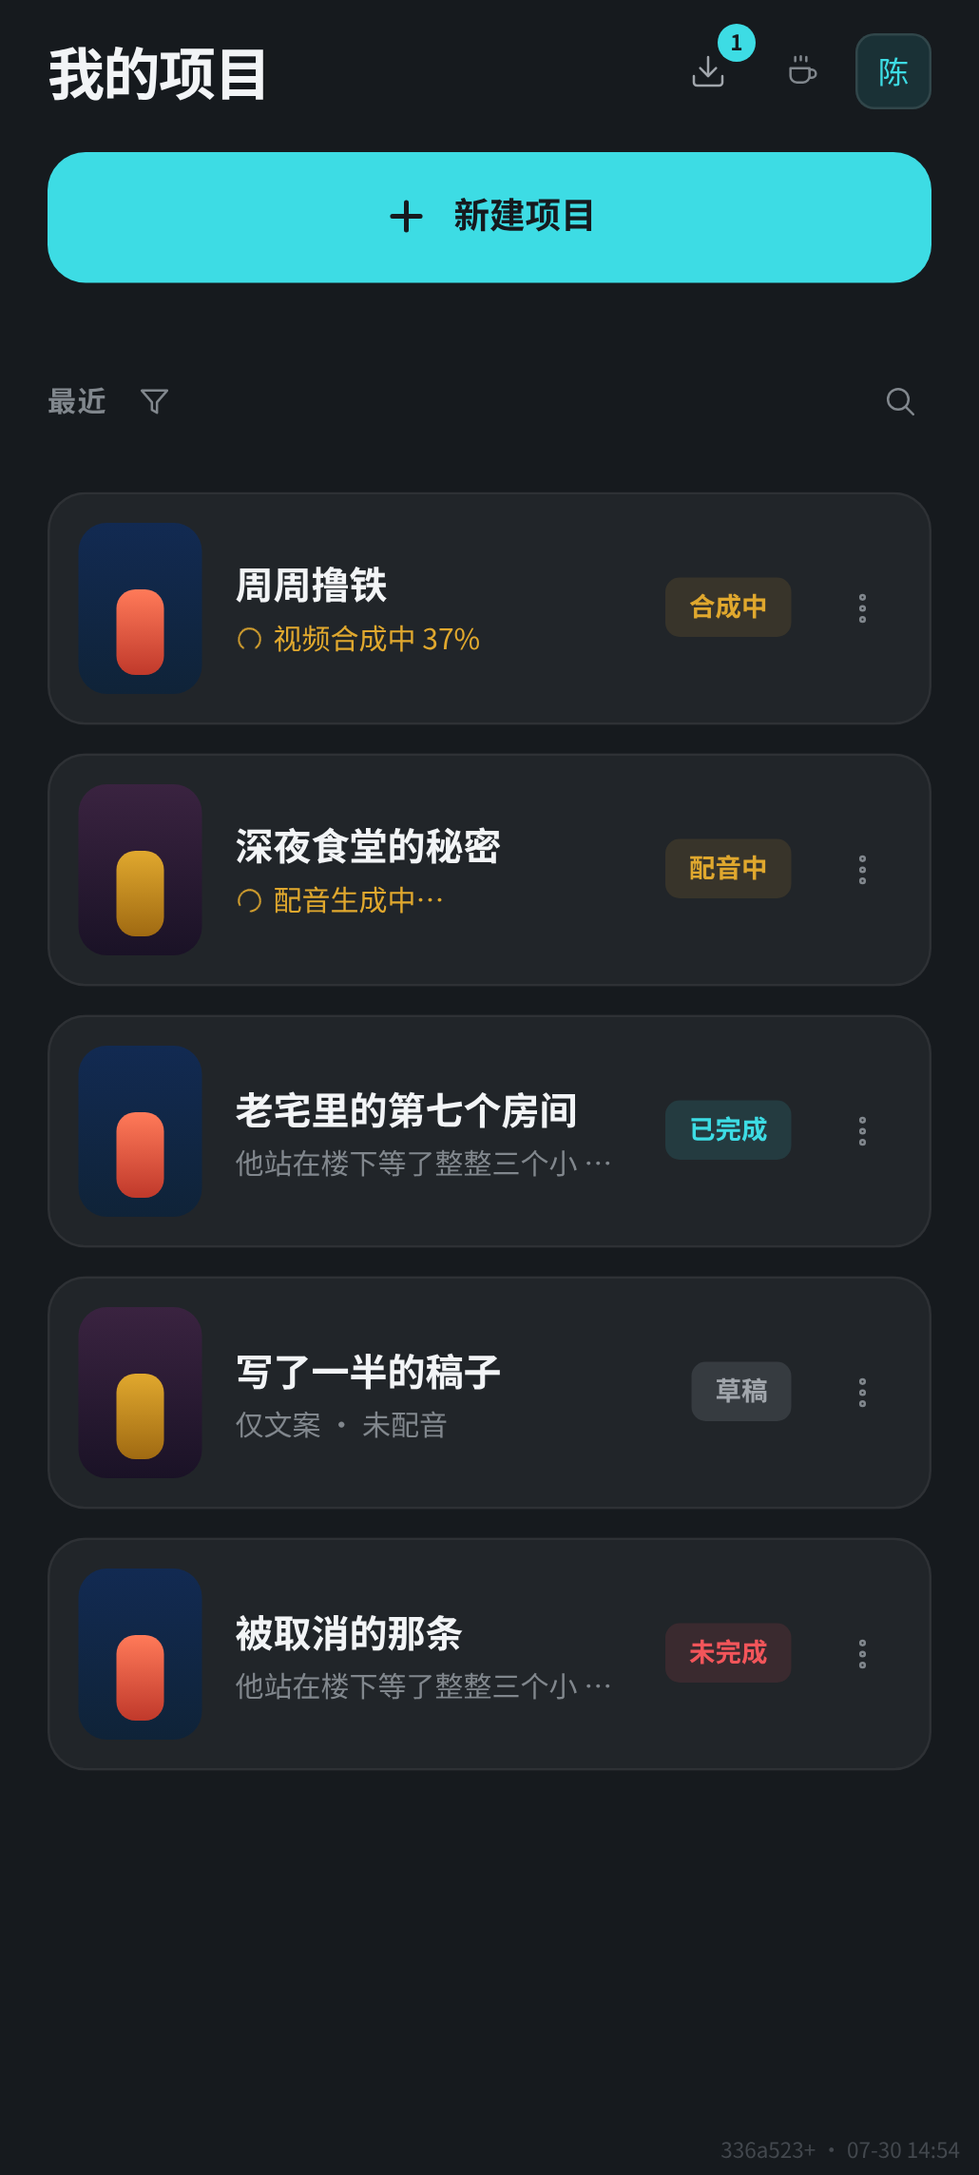
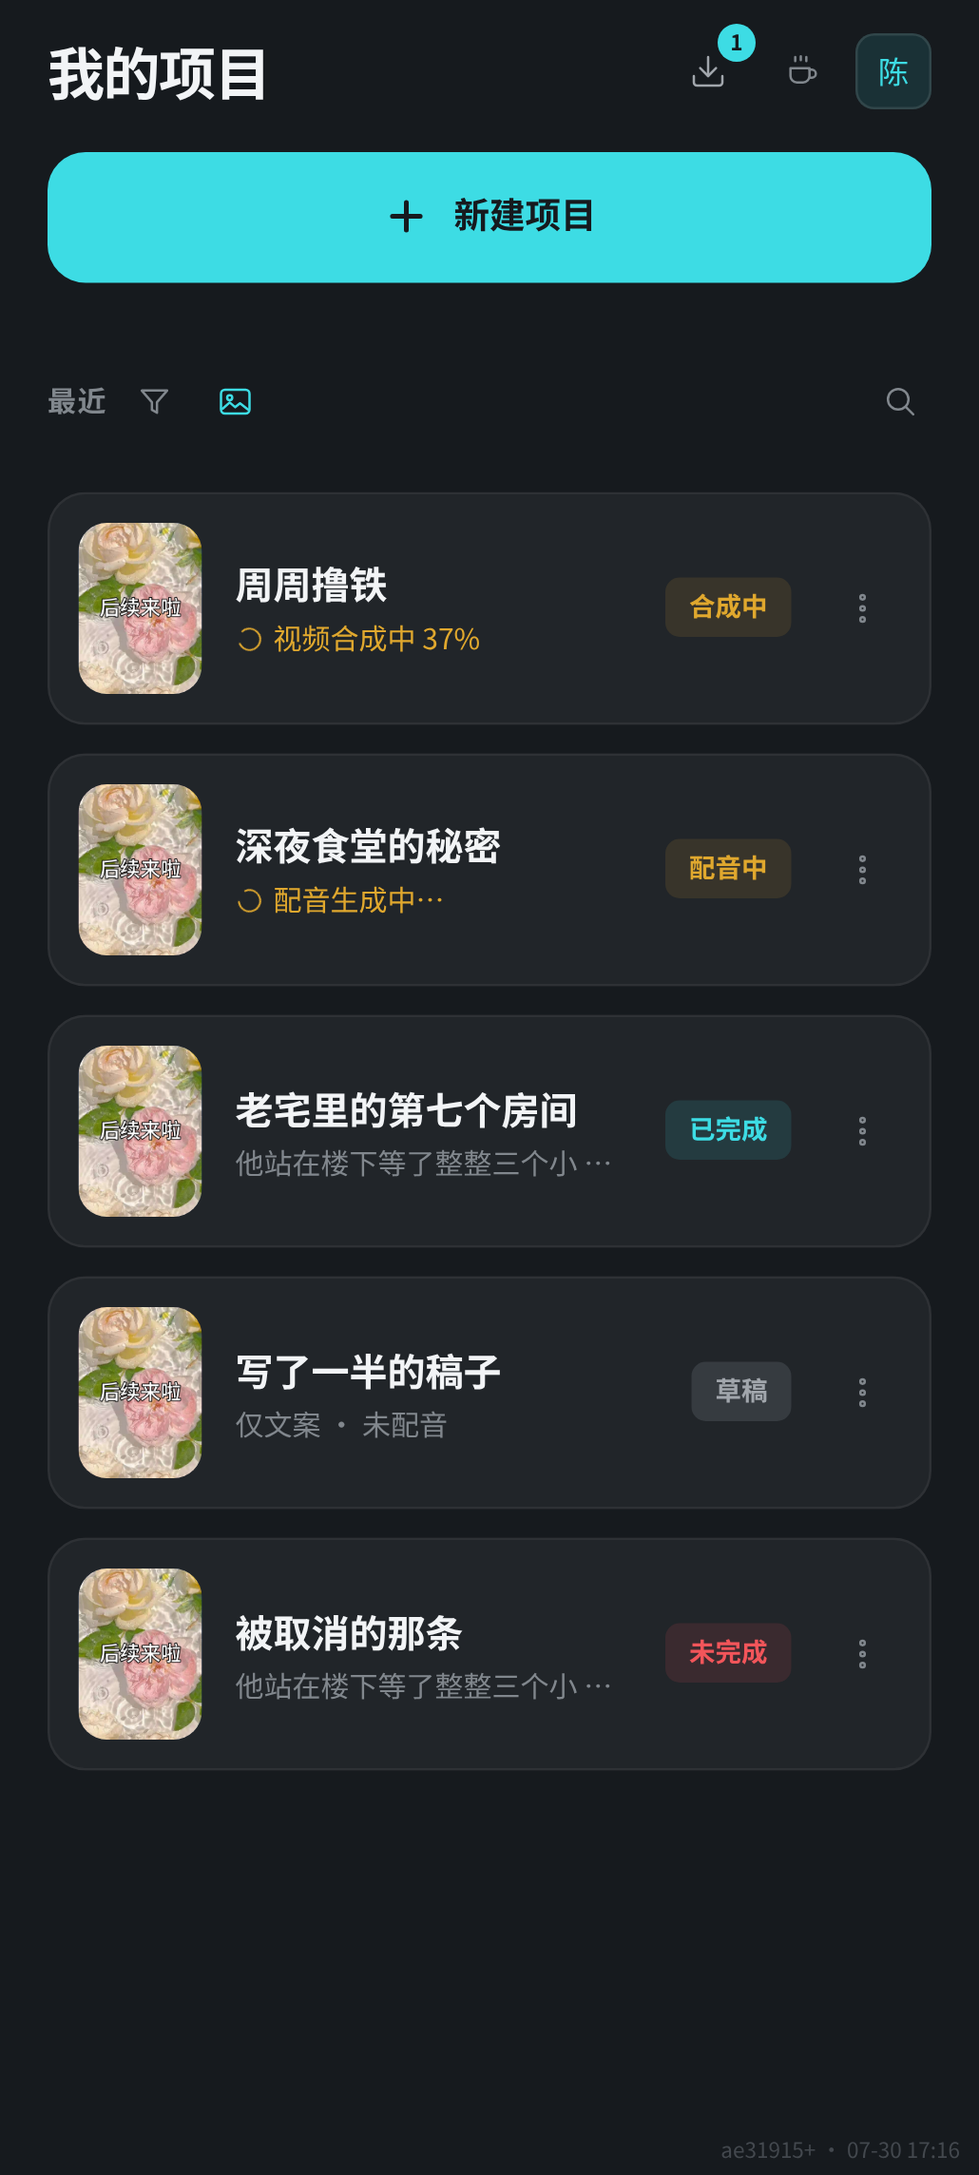
feat: 列表缩略图换成真封面 + 封面预览开关；长标题自动换行不再被切掉
列表
- 每行左边那块不再是编出来的渐变占位，而是这条片子真正的封面——列表上
  看到的就是它发出去以后别人看到的第一眼
- 槽位尺寸不变（52×72）。封面是 9:16，按【宽度铺满 + 纵向居中裁切】：
  宽度顶满不裁不变形，上下各裁一点。反过来按高度铺满的话左右会被切，
  而标题正在中间，切掉的就是字
- 「最近」行加封面预览开关，挨着漏斗。**只存本地不入库**——它回答的是
  "我现在想怎么看列表"，不是项目属性；关掉回退到原来的占位块
- GET /api/projects/:id/cover.jpg：只由底图 + 标题决定，和成片有没有合好
  无关，草稿项目也有封面。画一张约 350ms，按标题缓存到盘上

长标题（这条同时修了会烧进视频的 bug）
- drawtext 既不换行也不缩字号，它只是把画不下的部分画到画布外面。一个
  9 字的项目名在封面上是"两头都被切掉的半截字"——而项目名动辄七八个字，
  这是常态不是边角
- 现在：6 字以内一行；超过均分两行（长的那半在上，读起来是"标题+补充"）；
  两行还塞不下就缩字号，一行永不超过画布宽的 90%
- 4 字标题的字号和参考图拟合结果逐像素一致（外轮廓 IoU 0.961 未退化）
- 换行必须是【真的换行符】：写成 \n 两个字符 drawtext 会当成字母 n 画出来
- 字号用 floor 不是 round —— 这是个上限，四舍五入会让长标题超出预算
  一两个像素，超出的正好是最外侧的笔画

diff --git a/web/src/components/mobile/MobileProjectList.tsx b/web/src/components/mobile/MobileProjectList.tsx
@@ -4,7 +4,10 @@ import { usePipeline } from '../../store/pipeline'
 import { AccountMenu } from '../AccountMenu'
 import { PaletteToggle } from '../PaletteToggle'
 import { DownloadPanel } from './DownloadPanel'
-import { IconPlus, IconLoader, IconTrash, IconMore, IconFilter, IconSearch, IconClose } from '../ui/Icon'
+import {
+  IconPlus, IconLoader, IconTrash, IconMore, IconFilter, IconSearch, IconClose,
+  IconImage, IconImageOff,
+} from '../ui/Icon'
 
 /**
  * 手机版项目列表（概念图 Screen 0）：**我的项目 + 一步新建**。
@@ -60,6 +63,16 @@ function summaryOf (p: Project): string {
   return '空项目 · 从这里开始'
 }
 
+/*
+ * 【封面预览开关只存本地，不入库】。它回答的是"我现在想怎么看这个列表"，
+ * 不是项目的属性——换台设备各看各的，也不该因为改了个显示偏好就去写数据库。
+ */
+const COVER_PREF_KEY = 'sj.list.cover'
+
+function readCoverPref (): boolean {
+  try { return localStorage.getItem(COVER_PREF_KEY) !== '0' } catch { return true }
+}
+
 /** 下拉多远算"要刷新"，以及指示条最多长到多高 */
 const PULL_THRESHOLD = 56
 const PULL_MAX = 76
@@ -74,6 +87,7 @@ export function MobileProjectList ({ onOpen, onNew }: { onOpen: (id: string) => 
   const [query, setQuery] = useState('')
   const [searching, setSearching] = useState(false)
   const [filterHint, setFilterHint] = useState(false)
+  const [showCover, setShowCover] = useState(readCoverPref)
   const searchRef = useRef<HTMLInputElement>(null)
   useEffect(() => { if (searching) searchRef.current?.focus() }, [searching])
 
@@ -154,6 +168,26 @@ export function MobileProjectList ({ onOpen, onNew }: { onOpen: (id: string) => 
         >
           <IconFilter className="size-4" />
         </button>
+
+        {/* 封面预览开关：挨着漏斗。做成图标按钮而不是滑动开关——
+            这行只有 36px 高，塞一个 iOS 那种开关会把整行撑散。
+            只存本地，不入库（见 COVER_PREF_KEY 上面那段） */}
+        <button
+          type="button"
+          aria-label={showCover ? '关闭封面预览' : '显示封面预览'}
+          aria-pressed={showCover}
+          onClick={() => {
+            const next = !showCover
+            setShowCover(next)
+            try { localStorage.setItem(COVER_PREF_KEY, next ? '1' : '0') } catch { /* 无痕模式写不了，不影响本次 */ }
+          }}
+          className={`flex size-7 shrink-0 items-center justify-center rounded-lg transition-colors ${
+            showCover ? 'text-accent hover:bg-ink-850' : 'text-ink-400 hover:bg-ink-850 hover:text-ink-200'
+          }`}
+        >
+          {showCover ? <IconImage className="size-4" /> : <IconImageOff className="size-4" />}
+        </button>
+
         {filterHint && !searching && (
           <span className="truncate text-[11px] text-[#e0a82e]">我还没开发呢，以后再开发</span>
         )}
@@ -284,7 +318,15 @@ export function MobileProjectList ({ onOpen, onNew }: { onOpen: (id: string) => 
                     onKeyDown={(e) => { if (e.key === 'Enter' || e.key === ' ') { e.preventDefault(); onOpen(p.id) } }}
                     className="group flex w-full cursor-pointer items-center gap-3.5 rounded-2xl border border-line bg-ink-900 p-3 text-left transition-colors hover:border-ink-600"
                   >
-                    {/* 竖向缩略图占位：两种冷/暖渐变交替，呼应 9:16 画面 */}
+                    {/*
+                     * 缩略图。开着封面预览时放【这条片子真正的封面】——
+                     * 列表上看到的就是它发出去以后别人看到的第一眼。
+                     *
+                     * 封面是 9:16，槽位是 52×72（更方）。按【宽度铺满 + 纵向
+                     * 居中裁切】：宽度顶满不裁、不变形，上下各裁掉一点。
+                     * 反过来按高度铺满的话左右会被切掉，而标题正在中间，
+                     * 切掉的就是字。
+                     */}
                     <span
                       className="relative h-[72px] w-[52px] shrink-0 overflow-hidden rounded-xl"
                       style={{
@@ -293,14 +335,24 @@ export function MobileProjectList ({ onOpen, onNew }: { onOpen: (id: string) => 
                           : 'linear-gradient(180deg,#3a2340,#1a1226)',
                       }}
                     >
-                      <span
-                        className="absolute bottom-2 left-1/2 h-9 w-5 -translate-x-1/2 rounded-lg"
-                        style={{
-                          background: i % 2 === 0
-                            ? 'linear-gradient(180deg,#ff7a59,#c0392b)'
-                            : 'linear-gradient(180deg,#e0a82e,#a06a12)',
-                        }}
-                      />
+                      {showCover ? (
+                        <img
+                          // v= 跟着标题走：改了标题 URL 就变，缓存自然失效
+                          src={`/api/projects/${p.id}/cover.jpg?v=${encodeURIComponent(p.coverTitle || p.name)}`}
+                          alt=""
+                          loading="lazy"
+                          className="absolute inset-0 size-full object-cover object-center"
+                        />
+                      ) : (
+                        <span
+                          className="absolute bottom-2 left-1/2 h-9 w-5 -translate-x-1/2 rounded-lg"
+                          style={{
+                            background: i % 2 === 0
+                              ? 'linear-gradient(180deg,#ff7a59,#c0392b)'
+                              : 'linear-gradient(180deg,#e0a82e,#a06a12)',
+                          }}
+                        />
+                      )}
                     </span>
 
                     <span className="min-w-0 flex-1">

diff --git a/src/cover/cover.ts b/src/cover/cover.ts
@@ -37,9 +37,21 @@ import type { AspectPreset } from '../types.js'
 const FPS = 30
 export const COVER_FRAMES = 2
 
-const SIZE_RATIO = 0.16508      // 字号 / 画布宽
+const SIZE_RATIO = 0.16508      // 字号 / 画布宽（参考图那种 4 字标题的字号）
 const STROKE_RATIO = 0.03846    // 描边 / 字号
 const BASELINE_RATIO = 0.0096   // 垂直微调 / 字号
+
+/**
+ * 一行最多几个字，以及一行能占画布宽的多少。
+ *
+ * 【为什么必须有这两条】：参考图是 4 个字，按 0.16508 的字号正好占 66% 宽。
+ * 同样的字号给一个 9 字的标题，会一路画到画外去——drawtext 既不换行也不缩，
+ * 它只是把字画到画布外面，成片上看到的是【两头都被切掉的半截字】。
+ * 项目名动辄七八个字，所以这不是边角情况，是常态。
+ */
+const MAX_CHARS_PER_LINE = 6
+const MAX_LINES = 2
+const LINE_WIDTH_BUDGET = 0.90   // 一行最宽占画布宽的比例，两侧各留 5%
 
 /** 固定封面图和封面字体都跟着代码走，部署即到位 */
 export const COVER_IMAGE = join(process.cwd(), 'assets/cover/default.jpg')
@@ -47,6 +59,13 @@ export const COVER_FONT = join(process.cwd(), 'assets/fonts/SourceHanSansCN-Medi
 
 /** 封面片段的文件名（放在项目目录里，和成片同级） */
 export const COVER_CLIP_FILE = 'cover.mp4'
+
+/** 列表缩略图用的封面静态图，和它对应的标题（标题变了要重画） */
+export const COVER_THUMB_FILE = 'cover-thumb.jpg'
+export const COVER_THUMB_TITLE_FILE = 'cover-thumb.txt'
+
+/** 缩略图宽度。列表里显示只有 52 逻辑像素宽，360 足够 3 倍屏 */
+export const COVER_THUMB_WIDTH = 360
 
 /**
  * drawtext 的 text 值要转义。
@@ -69,8 +88,33 @@ export function coverTitleOf (project: { name: string; coverTitle?: string | nul
   return t === '' ? project.name : t
 }
 
+/**
+ * 标题排版：先决定分几行，再决定字号。
+ *
+ * 分行：6 个字以内一行；超过就均分成两行（长的那半放上面，读起来是
+ * 「大标题 + 补充」而不是「补充 + 大标题」）。超过 12 字只能靠缩字号。
+ *
+ * 字号：取【参考字号】和【一行塞得下的字号】里小的那个。于是 4 字标题和
+ * 参考图逐像素一致，长标题自动缩到画得下——而不是被切掉两头。
+ */
+export function layoutTitle (title: string, width: number): { lines: string[]; size: number } {
+  const chars = [...title.trim()]
+  const lines = chars.length <= MAX_CHARS_PER_LINE
+    ? [chars.join('')]
+    : (() => {
+        const per = Math.ceil(chars.length / MAX_LINES)
+        return [chars.slice(0, per).join(''), chars.slice(per).join('')]
+      })()
+  const longest = Math.max(...lines.map((l) => [...l].length), 1)
+  // 中日韩方块字的步进就是一个字号，所以"一行的宽" ≈ 字数 × 字号
+  const fitted = (width * LINE_WIDTH_BUDGET) / longest
+  // 【floor 不是 round】：这是个上限。四舍五入会让长标题超出预算一两个像素，
+  // 而超出的那部分正好是最外侧的笔画，看着就是"边上少了一点点"
+  return { lines, size: Math.floor(Math.min(width * SIZE_RATIO, fitted)) }
+}
+
 export function coverDrawtextFilter (title: string, aspect: AspectPreset): string {
-  const size = Math.round(aspect.width * SIZE_RATIO)
+  const { lines, size } = layoutTitle(title, aspect.width)
   const border = Math.max(1, Math.round(size * STROKE_RATIO))
   const dy = Math.round(size * BASELINE_RATIO)
   return [
@@ -78,12 +122,15 @@ export function coverDrawtextFilter (title: string, aspect: AspectPreset): strin
     `crop=${aspect.width}:${aspect.height}`,
     [
       `drawtext=fontfile=${COVER_FONT}`,
-      `text='${escapeDrawtext(title)}'`,
+      // 换行用【真的换行符】。写成 \n 两个字符的话 drawtext 会当成字母 n 画出来
+      `text='${lines.map(escapeDrawtext).join('\n')}'`,
       `fontsize=${size}`,
       'fontcolor=white',
       `borderw=${border}`,
       'bordercolor=black',
+      `line_spacing=${Math.round(size * 0.08)}`,
       'x=(w-text_w)/2',
+      // text_h 是整块文字的高（两行也算在内），所以多行照样是整体居中
       `y=(h-text_h)/2+${dy}`,
     ].join(':'),
     `fps=${FPS}`,
@@ -147,6 +194,25 @@ export function coverClipArgs (opts: {
     '-movflags', '+faststart',
     opts.outPath,
   ]
+}
+
+/**
+ * 渲染一张封面【静态图】。列表里的缩略图用它——那儿要的是"这条片子发出去
+ * 别人看到的样子"，所以必须和成片最前面那两帧同一套版式、同一张底图。
+ *
+ * 尺寸按比例缩：drawtext 的字号/描边都是画布宽的比例，缩了照样对得上。
+ */
+export async function renderCoverImage (opts: {
+  imagePath: string; title: string; aspect: AspectPreset; outPath: string
+}): Promise<void> {
+  await run([
+    '-hide_banner', '-loglevel', 'error', '-y',
+    '-i', opts.imagePath,
+    '-vf', coverDrawtextFilter(opts.title, opts.aspect),
+    '-frames:v', '1',
+    '-q:v', '4',
+    opts.outPath,
+  ], '封面缩略图渲染')
 }
 
 function run (args: string[], what: string): Promise<void> {

diff --git a/src/queue/routes.ts b/src/queue/routes.ts
@@ -1,5 +1,5 @@
 import type { FastifyInstance } from 'fastify'
-import { createReadStream, existsSync, readFileSync, statSync } from 'node:fs'
+import { createReadStream, existsSync, readFileSync, statSync, writeFileSync } from 'node:fs'
 import { dirname, join } from 'node:path'
 import { spawn } from 'node:child_process'
 import { sendFileRange } from '../assets/storage.js'
@@ -7,7 +7,13 @@ import { openUserDb, type Project } from '../db/user-db.js'
 import { getSession, requireAuth } from '../auth/session.js'
 import { downloadableFilm, playableMaster, enqueueFilm, filmInfo, resolveFilm, FILM_STAMP_FILE, type FilmDeps } from '../compose/film.js'
 import { writeStamp } from '../compose/stamp.js'
-import { COVER_IMAGE } from '../cover/cover.js'
+import {
+  COVER_IMAGE, COVER_THUMB_FILE, COVER_THUMB_TITLE_FILE, COVER_THUMB_WIDTH,
+  coverTitleOf, renderCoverImage,
+} from '../cover/cover.js'
+import { aspectOf } from '../subtitles/project-ass.js'
+import { assetDir } from '../assets/storage.js'
+import { mkdir } from 'node:fs/promises'
 
 type Deps = FilmDeps
 
@@ -213,6 +219,45 @@ export function registerExportRoutes (app: FastifyInstance, deps: Deps): void {
       const versioned = typeof (req.query as { v?: string })?.v === 'string'
       reply.header('Cache-Control', versioned ? 'public, max-age=86400' : 'no-cache')
       return reply.type('image/jpeg').send(readFileSync(posterPath))
+    })
+
+  /**
+   * 这个项目的封面缩略图。项目列表每一行左边那块就是它——列表上看到的
+   * 必须就是这条片子发出去别人看到的第一眼，而不是一个占位色块。
+   *
+   * 【和成片有没有合好无关】：封面只由底图 + 标题决定，草稿状态的项目
+   * 也该有封面。所以这里不查母带、不查成片，直接画。
+   *
+   * 缓存：画完连标题一起存着，标题没变就直接回文件（画一张约 100ms，
+   * 列表每行都要，不缓存的话滚动一下就是十几次 ffmpeg）。
+   */
+  app.get<{ Params: { id: string } }>(
+    '/api/projects/:id/cover.jpg', { preHandler: requireAuth }, async (req, reply) => {
+      const name = getSession(req)!
+      const project = withUserDb(name, (db) => db.getProject(req.params.id))
+      if (!project) return reply.code(404).send({ error: '项目不存在' })
+
+      const dir = assetDir(name, deps.whitelist, req.params.id)
+      const title = coverTitleOf(project)
+      const thumb = join(dir, COVER_THUMB_FILE)
+      const titleFile = join(dir, COVER_THUMB_TITLE_FILE)
+      const cached = existsSync(thumb) && existsSync(titleFile)
+        && readFileSync(titleFile, 'utf-8') === title
+      if (!cached) {
+        const full = aspectOf(project)
+        const w = COVER_THUMB_WIDTH
+        const h = Math.round(w * full.height / full.width)
+        await mkdir(dir, { recursive: true })
+        await renderCoverImage({
+          imagePath: COVER_IMAGE, title,
+          aspect: { name: full.name, width: w, height: h },
+          outPath: thumb,
+        })
+        writeFileSync(titleFile, title, 'utf-8')
+      }
+      // 标题变了 URL 会带上新的 v=，所以这份可以放心长缓存
+      reply.header('Cache-Control', 'public, max-age=86400')
+      return reply.type('image/jpeg').send(readFileSync(thumb))
     })
 
   /**

diff --git a/tests/cover/cover.test.ts b/tests/cover/cover.test.ts
@@ -1,6 +1,6 @@
 import { describe, it, expect } from 'vitest'
 import {
-  escapeDrawtext, coverTitleOf, coverDrawtextFilter, coverClipArgs, COVER_FRAMES,
+  escapeDrawtext, coverTitleOf, coverDrawtextFilter, coverClipArgs, COVER_FRAMES, layoutTitle,
 } from '../../src/cover/cover.js'
 
 const ASPECT = { name: '9:16', width: 1080, height: 1920 }
@@ -60,6 +60,39 @@ describe('版式比例', () => {
     const f = coverDrawtextFilter('后续来啦', ASPECT)
     expect(f).toContain('fontsize=178')   // 1080 × 0.16508
     expect(f).toContain('borderw=7')      // 178 × 0.03846
+  })
+})
+
+describe('长标题排版', () => {
+  /*
+   * drawtext 【既不换行也不缩字号】——它只是把画不下的部分画到画布外面。
+   * 于是一个 9 字的项目名在成片封面上是"两头都被切掉的半截字"，而项目名
+   * 动辄七八个字，这是常态不是边角。下面几条守住换行 + 缩字号这两道防线。
+   */
+  it('参考图那种 4 字标题：一行，字号和拟合结果一致', () => {
+    expect(layoutTitle('后续来啦', 1260)).toEqual({ lines: ['后续来啦'], size: 208 })
+  })
+
+  it('6 字以内不换行', () => {
+    expect(layoutTitle('深夜食堂秘密', 1080).lines).toEqual(['深夜食堂秘密'])
+  })
+
+  it('超过 6 字均分两行，长的那半在上面', () => {
+    expect(layoutTitle('老宅里的第七个房间', 1080).lines).toEqual(['老宅里的第', '七个房间'])
+  })
+
+  it('两行还塞不下就缩字号，且绝不超过一行 90% 宽', () => {
+    const { lines, size } = layoutTitle('一二三四五六七八九十一二三四', 1080)
+    expect(lines).toHaveLength(2)
+    const longest = Math.max(...lines.map((l) => [...l].length))
+    expect(size * longest).toBeLessThanOrEqual(1080 * 0.9)
+    expect(size).toBeLessThan(Math.round(1080 * 0.16508))   // 确实缩了
+  })
+
+  it('长标题的滤镜串里带真的换行符，不是字母 n', () => {
+    const f = coverDrawtextFilter('老宅里的第七个房间', { name: 'x', width: 1080, height: 1920 })
+    expect(f).toContain('老宅里的第\n七个房间')
+    expect(f).not.toContain('\\n')
   })
 })
 

diff --git a/web/src/components/ui/Icon.tsx b/web/src/components/ui/Icon.tsx
@@ -173,6 +173,28 @@ export function IconSubtitles (props: IconProps) {
   )
 }
 
+/** 图片——列表里"显示封面"的开关（开） */
+export function IconImage (props: IconProps) {
+  return (
+    <Svg {...props}>
+      <rect x="3" y="4.5" width="18" height="15" rx="2.5" />
+      <circle cx="8.5" cy="9.5" r="1.6" />
+      <path d="m4 16.5 4.5-4 3.5 3 3-2.5 5 4" />
+    </Svg>
+  )
+}
+
+/** 图片被划掉——"显示封面"的开关（关） */
+export function IconImageOff (props: IconProps) {
+  return (
+    <Svg {...props}>
+      <rect x="3" y="4.5" width="18" height="15" rx="2.5" />
+      <path d="m4 16.5 4.5-4 3.5 3 3-2.5 5 4" />
+      <path d="M4 20 20 4" />
+    </Svg>
+  )
+}
+
 /** 筛选——漏斗。列表页「最近」旁边那个按钮 */
 export function IconFilter (props: IconProps) {
   return (

diff --git a/screenshots/README.md b/screenshots/README.md
@@ -8,7 +8,9 @@
 
 | 文件 | 拍的是什么 |
 | --- | --- |
-| `list.png` | 项目列表。看「最近/筛选/放大镜」那条分隔带的上下留白，和「被取消的那条」显示**未完成** |
+| `list.png` | 项目列表。缩略图是**真封面**（按宽度铺满、纵向居中裁切）；分隔带上下留白；「被取消的那条」显示**未完成** |
+| `cover-repro.png` / `cover-diff.png` | 封面复刻 vs 参考图。差异图里红=参考多出、绿=复刻多出、白=重合——只剩边缘一像素 |
+| `cover-titles.png` | 四种长度的标题：4 字（和参考同字号）、9 字（换两行）、7 字、14 字（换行 + 缩字号） |
 | `downloads.png` | 下载队列悬浮框（进行中一条 + 已保存一条 + 底部说明） |
 | `search-mid.png` | 放大镜拉开到一半的中间帧——用来看展开动画有没有真的在动 |
 | `search.png` | 搜索胶囊展开后输入「老宅」，列表实时过滤 |
